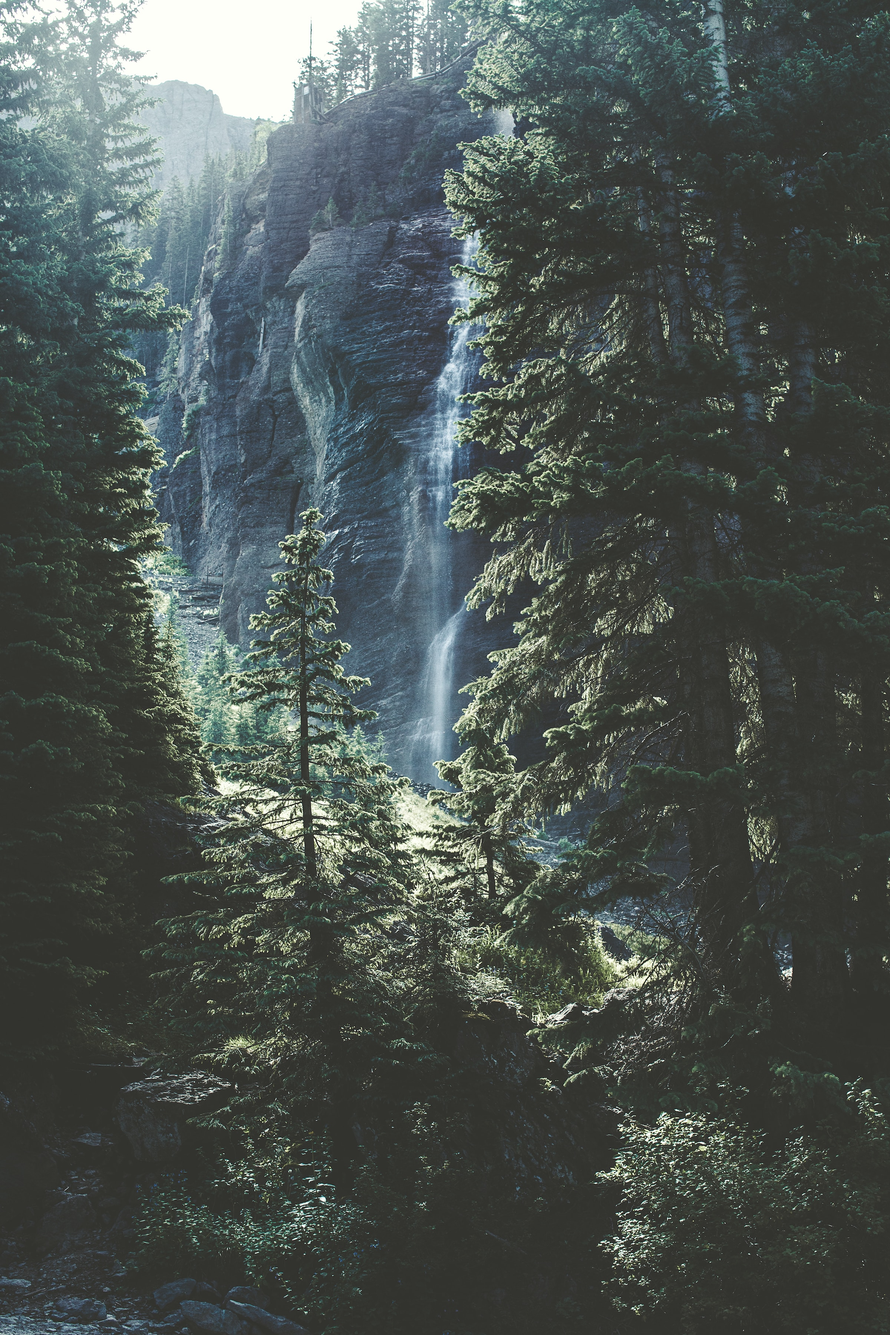
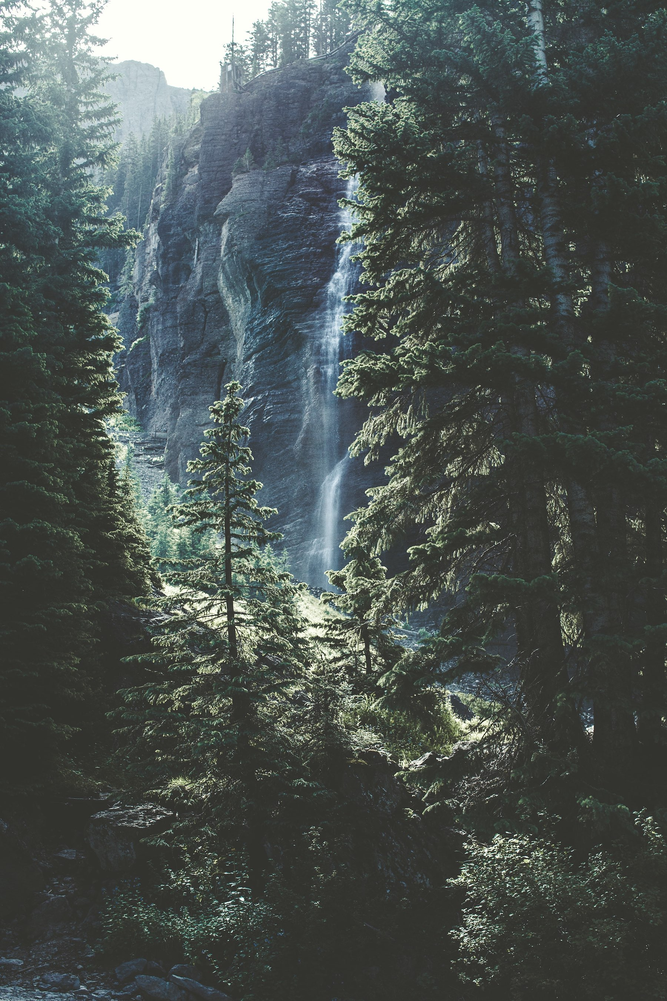
optimize image load

Changed region(s): [[0.7156, 0.84, 0.8089, 0.8711], [0.6844, 0.8711, 0.7156, 0.9644]]

diff --git a/src/components/navigation/Navigation.tsx b/src/components/navigation/Navigation.tsx
@@ -1,4 +1,3 @@
-import Image from 'next/image';
 import Link from 'next/link';
 import { usePathname } from 'next/navigation';
 import { useCallback, useEffect, useState } from 'react';
@@ -99,14 +98,11 @@ const Navigation = () => {
           {isMobile && <HamburgerIcon isOpen={isOpen} onClick={toggleMenu} />}
           <LinkLogo href='/'>
             <Logo
-              src={logoImage}
+              src={logoImage.src}
               alt='logo'
               width={120}
               height={70}
-              style={{ width: 'auto', height: 'auto' }}
-              quality={50}
-              sizes='120px'
-              priority
+              decoding='async'
             />
             <BrandText>B R A S I K A</BrandText>
           </LinkLogo>
@@ -163,9 +159,10 @@ const BrandRow = styled.div`
   align-items: center;
 `;
 
-const Logo = styled(Image)`
+const Logo = styled.img`
+  width: 120px;
   height: auto;
-  width: auto;
+  flex-shrink: 0;
 `;
 
 const LinkLogo = styled(Link)`

diff --git a/src/app/layout.tsx b/src/app/layout.tsx
@@ -19,6 +19,13 @@ export const metadata: Metadata = {
 const RootLayout = ({ children }: Props) => {
   return (
     <html lang='lv' data-scroll-behavior='smooth'>
+      <head>
+        <link
+          rel='preconnect'
+          href='https://images.ctfassets.net'
+          crossOrigin='anonymous'
+        />
+      </head>
       <body>
         <Providers>
           <AppShell>{children}</AppShell>

diff --git a/next.config.js b/next.config.js
@@ -9,8 +9,8 @@ const nextConfig = {
   reactStrictMode: true,
   images: {
     formats: ['image/avif', 'image/webp'],
-    qualities: [50, 60, 65, 70, 75],
-    minimumCacheTTL: 86400,
+    qualities: [50, 55, 60, 65, 70, 75, 85],
+    minimumCacheTTL: 2678400,
     deviceSizes: [640, 750, 828, 960, 1080, 1200, 1536, 1920],
     imageSizes: [16, 32, 48, 64, 96, 128, 256, 384],
     remotePatterns: [

diff --git a/src/app/services/page.tsx b/src/app/services/page.tsx
@@ -24,7 +24,7 @@ const ServicesPage = async () => {
         <ServiceCard
           key={service.sys.id}
           service={service}
-          priority={index < 2}
+          priority={index === 0}
         />
       )}
       emptyStateText='Paslaik pakalpojumu sadala tiek papildinata. Uzraksti mums, un ieteiksim piemerotako risinajumu tavai teritorijai.'

diff --git a/src/app/page-client.tsx b/src/app/page-client.tsx
@@ -117,8 +117,8 @@ const HomePageClient = () => {
           src={bacgroundImageThree}
           alt='Brasika landscaping'
           fill
-          quality={60}
-          sizes='(max-width: 768px) 130vw, 116vw'
+          quality={55}
+          sizes='(max-width: 768px) 112vw, 108vw'
           placeholder='blur'
           priority
         />

diff --git a/src/app/projects/page.tsx b/src/app/projects/page.tsx
@@ -24,7 +24,7 @@ const ProjectsPage = async () => {
         <ProjectCard
           key={project.sys.id}
           project={project}
-          priority={index < 2}
+          priority={index === 0}
         />
       )}
       emptyStateText='Paslaik projektu galerija tiek papildinata. Ja velies redzet lidzigus darbus, sazinies ar mums.'

diff --git a/src/components/cards/CollectionCard.tsx b/src/components/cards/CollectionCard.tsx
@@ -77,7 +77,9 @@ const Card = styled.div`
   }
 `;
 
-const StyledLink = styled(Link)`
+const StyledLink = styled(Link).attrs({
+  prefetch: false,
+})`
   display: flex;
   flex-direction: column;
   width: 100%;

diff --git a/README.md b/README.md
@@ -154,7 +154,10 @@ Current maturity:
 - server-rendered primitives keep using imported theme tokens (not runtime `theme` props) to avoid App Router server/client theme-context gaps
 - root layout includes `data-scroll-behavior="smooth"` to match Next.js scroll restoration expectations
 - about hero image uses `placeholder='empty'` to avoid persistent blur artifacts in local dev
-- navigation logo now sets explicit auto dimensions on the `next/image` element to prevent aspect-ratio console warnings
+- navigation logo now uses a static `<img>` with fixed intrinsic dimensions to avoid recurrent Next image sizing warnings
+- list cards use intent-based route prefetch (`prefetch={false}` on `Link`) to avoid eager viewport prefetch churn on long grids
+- image optimizer cache floor is increased to 31 days (`images.minimumCacheTTL`) for stronger repeat-visit performance
+- home hero source image was downscaled/compressed to reduce transfer cost while preserving visual quality
 
 ## Key implementation patterns
 
@@ -168,6 +171,7 @@ Current maturity:
 - Contact form action row now reflows responsively and form field row collapses earlier on tablet widths
 - Action links/buttons share one tokenized sizing model (`components.action.*`) with consistent hover/focus behavior
 - Form fields and textarea share one tokenized density/focus model (`components.form.*`) for consistent input rhythm
+- external media host is preconnected in root layout (`images.ctfassets.net`) to reduce first-image handshake latency
 
 ## Testing
 
